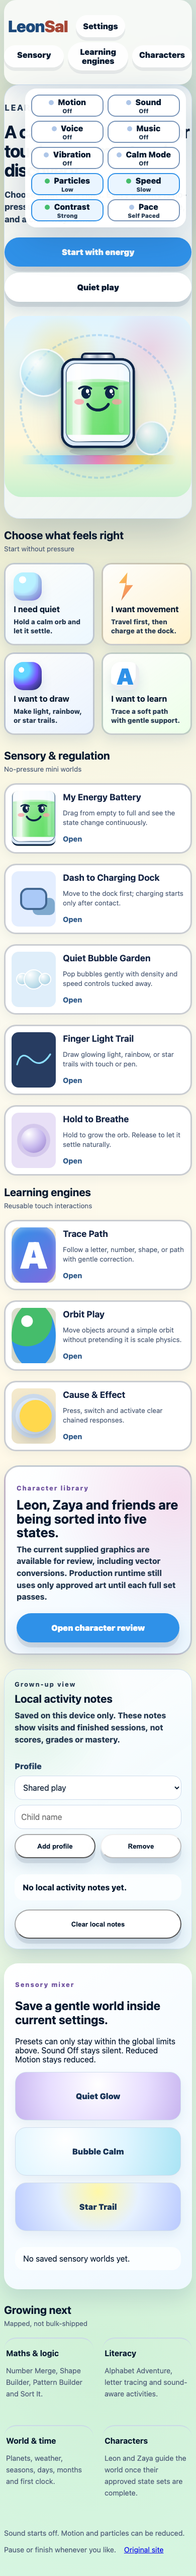
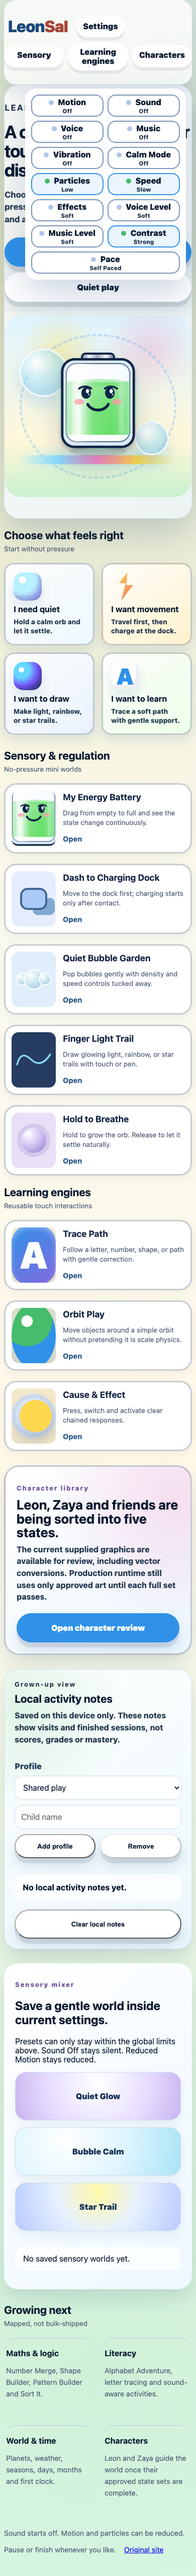
Add independent V2 audio level controls

Changed region(s): [[0.1231, 0.0625, 0.9538, 0.125]]

diff --git a/v2-engine.js b/v2-engine.js
@@ -42,6 +42,9 @@ const LeonSalV2 = (() => {
         calmMode: false,
         particles: 'gentle',
         speed: 'normal',
+        effectsLevel: 'soft',
+        voiceLevel: 'soft',
+        musicLevel: 'soft',
         contrast: 'standard',
         pace: 'self-paced',
         confetti: false,
@@ -70,6 +73,9 @@ const LeonSalV2 = (() => {
       }
       if (['off', 'low', 'gentle'].includes(patch.particles)) this.value.particles = patch.particles;
       if (['slow', 'normal', 'lively'].includes(patch.speed)) this.value.speed = patch.speed;
+      if (['off', 'soft', 'medium'].includes(patch.effectsLevel)) this.value.effectsLevel = patch.effectsLevel;
+      if (['off', 'soft', 'medium'].includes(patch.voiceLevel)) this.value.voiceLevel = patch.voiceLevel;
+      if (['off', 'soft', 'medium'].includes(patch.musicLevel)) this.value.musicLevel = patch.musicLevel;
       if (['standard', 'strong'].includes(patch.contrast)) this.value.contrast = patch.contrast;
       if (['self-paced', 'guided'].includes(patch.pace)) this.value.pace = patch.pace;
       if (window.matchMedia('(prefers-reduced-motion: reduce)').matches) this.value.reducedMotion = true;
@@ -90,6 +96,12 @@ const LeonSalV2 = (() => {
       if (this.value.particles === 'low') return Math.ceil(base * 0.4);
       return base;
     }
+    levelValue(key) {
+      const value = this.value[key];
+      if (value === 'off') return 0;
+      if (value === 'medium') return 0.68;
+      return 0.36;
+    }
   }
 
   class SettingsPanel {
@@ -106,6 +118,9 @@ const LeonSalV2 = (() => {
         calmMode: 'Calm Mode',
         particles: 'Particles',
         speed: 'Speed',
+        effectsLevel: 'Effects',
+        voiceLevel: 'Voice Level',
+        musicLevel: 'Music Level',
         contrast: 'Contrast',
         pace: 'Pace',
         confetti: 'Confetti'
@@ -113,6 +128,9 @@ const LeonSalV2 = (() => {
       this.choices = {
         particles: ['gentle', 'low', 'off'],
         speed: ['normal', 'slow', 'lively'],
+        effectsLevel: ['soft', 'medium', 'off'],
+        voiceLevel: ['soft', 'medium', 'off'],
+        musicLevel: ['soft', 'medium', 'off'],
         contrast: ['standard', 'strong'],
         pace: ['self-paced', 'guided']
       };
@@ -246,7 +264,7 @@ const LeonSalV2 = (() => {
       return this.ctx;
     }
     tone(type = 'tap') {
-      if (!this.settings.value.sound) return;
+      if (!this.settings.value.sound || this.settings.value.effectsLevel === 'off') return;
       const ctx = this.ensure();
       if (!ctx) return;
       const osc = ctx.createOscillator();
@@ -254,7 +272,7 @@ const LeonSalV2 = (() => {
       const now = ctx.currentTime;
       osc.frequency.value = type === 'success' ? 520 : 360;
       gain.gain.setValueAtTime(0.0001, now);
-      gain.gain.exponentialRampToValueAtTime(0.045, now + 0.02);
+      gain.gain.exponentialRampToValueAtTime(0.045 * this.settings.levelValue('effectsLevel'), now + 0.02);
       gain.gain.exponentialRampToValueAtTime(0.0001, now + 0.18);
       osc.connect(gain);
       gain.connect(ctx.destination);

diff --git a/js/storage.js b/js/storage.js
@@ -12,7 +12,10 @@
     vibration: true,
     reducedMotion: false,
     calmMode: false,
-    confetti: true
+    confetti: true,
+    effectsLevel: "soft",
+    voiceLevel: "soft",
+    musicLevel: "soft"
   };
 
   function readJson(key, fallback) {
@@ -29,6 +32,9 @@
     ["motion", "sound", "voice", "vibration", "reducedMotion", "calmMode", "confetti"].forEach(function (key) {
       if (typeof settings[key] === "boolean") result[key] = settings[key];
     });
+    ["effectsLevel", "voiceLevel", "musicLevel"].forEach(function (key) {
+      if (["off", "soft", "medium"].indexOf(settings[key]) >= 0) result[key] = settings[key];
+    });
     return result;
   }
 
@@ -41,7 +47,10 @@
       vibration: Boolean(settings.vibration),
       reducedMotion: Boolean(settings.reducedMotion),
       calmMode: Boolean(settings.calmMode),
-      confetti: Boolean(settings.confetti)
+      confetti: Boolean(settings.confetti),
+      effectsLevel: ["off", "soft", "medium"].indexOf(settings.effectsLevel) >= 0 ? settings.effectsLevel : existing.effectsLevel,
+      voiceLevel: ["off", "soft", "medium"].indexOf(settings.voiceLevel) >= 0 ? settings.voiceLevel : existing.voiceLevel,
+      musicLevel: ["off", "soft", "medium"].indexOf(settings.musicLevel) >= 0 ? settings.musicLevel : existing.musicLevel
     });
   }
 

diff --git a/js/v2-home.js b/js/v2-home.js
@@ -5,7 +5,8 @@
   const toggle = document.getElementById('hubSettingsButton');
   if (!host || !toggle || typeof LeonSalV2 === 'undefined') return;
   const settings = new LeonSalV2.SensorySettings();
-  new LeonSalV2.SettingsPanel(host, settings, { keys: ['motion', 'sound', 'voice', 'music', 'vibration', 'calmMode', 'particles', 'speed', 'contrast', 'pace'] });
+  const sensoryKeys = ['motion', 'sound', 'voice', 'music', 'vibration', 'calmMode', 'particles', 'speed', 'effectsLevel', 'voiceLevel', 'musicLevel', 'contrast', 'pace'];
+  new LeonSalV2.SettingsPanel(host, settings, { keys: sensoryKeys });
 
   const apply = () => {
     document.body.dataset.motion = settings.allowsMotion() ? 'on' : 'off';

diff --git a/js/v2-game-shell.js b/js/v2-game-shell.js
@@ -2,7 +2,7 @@
 
 // Shared no-pressure lifecycle for the five flagship previews.
 class LeonSalGameShell {
-  static sensoryKeys = ['motion', 'sound', 'voice', 'music', 'vibration', 'calmMode', 'particles', 'speed', 'contrast', 'pace'];
+  static sensoryKeys = ['motion', 'sound', 'voice', 'music', 'vibration', 'calmMode', 'particles', 'speed', 'effectsLevel', 'voiceLevel', 'musicLevel', 'contrast', 'pace'];
 
   static routeGameId() {
     return location.pathname.split('/').pop().replace(/^v2-/, '').replace(/\.html$/, '') || 'v2-game';

diff --git a/docs/LEONSAL_COMPLETION_CHECKLIST.md b/docs/LEONSAL_COMPLETION_CHECKLIST.md
@@ -47,7 +47,7 @@ These changes remain preview work. They do not approve character art, claim prod
 
 - [ ] Reconcile the static proof architecture with the adopted Vite/TypeScript modular build target; pin test/build dependencies and add reproducible lockfile/CI.
 - [ ] Complete full game-module preload/mount/start/pause/resume/reset/settings/destroy lifecycle, resource ownership, and repeat-route cleanup tests. The current shared session wrapper handles pause/finish and now has repeated-route cleanup stress coverage, but this is still not the entire module architecture.
-- [x] Bridge legacy and V2 sensory preference stores for core controls. V2 now validates and exposes motion, sound, voice, music, vibration, calm mode, particles, speed, contrast and pace; the legacy home reads/writes shared motion, sound, vibration and contrast settings. Independent audio levels and deeper profile migration remain outstanding.
+- [x] Bridge legacy and V2 sensory preference stores for core controls. V2 now validates and exposes motion, sound, voice, music, vibration, calm mode, particles, speed, effects level, voice level, music level, contrast and pace; the legacy home reads/writes shared motion, sound, vibration, contrast and independent V2 audio-level settings. Deeper profile migration remains outstanding.
 - [x] Implement and verify eight foundation engine contracts: memory-recall, physics-play, character-state-animation, world-shell-progress, asset-loader, performance-monitor, profile-progress-store, hint-feedback. These are foundation primitives, not completed games.
 - [ ] Complete parent/profile controls, full error recovery and full offline behaviour. Local V2 activity notes now support separate local child profiles, and the safe V2 route cache plus navigation-only offline fallback avoid false saved/mastery claims; full caregiver controls and full offline UX are still not complete.
 - [x] Implement Sensory Mixer foundation using global preference ceilings; presets do not count as games. Further work remains for a richer creator/editor flow.
